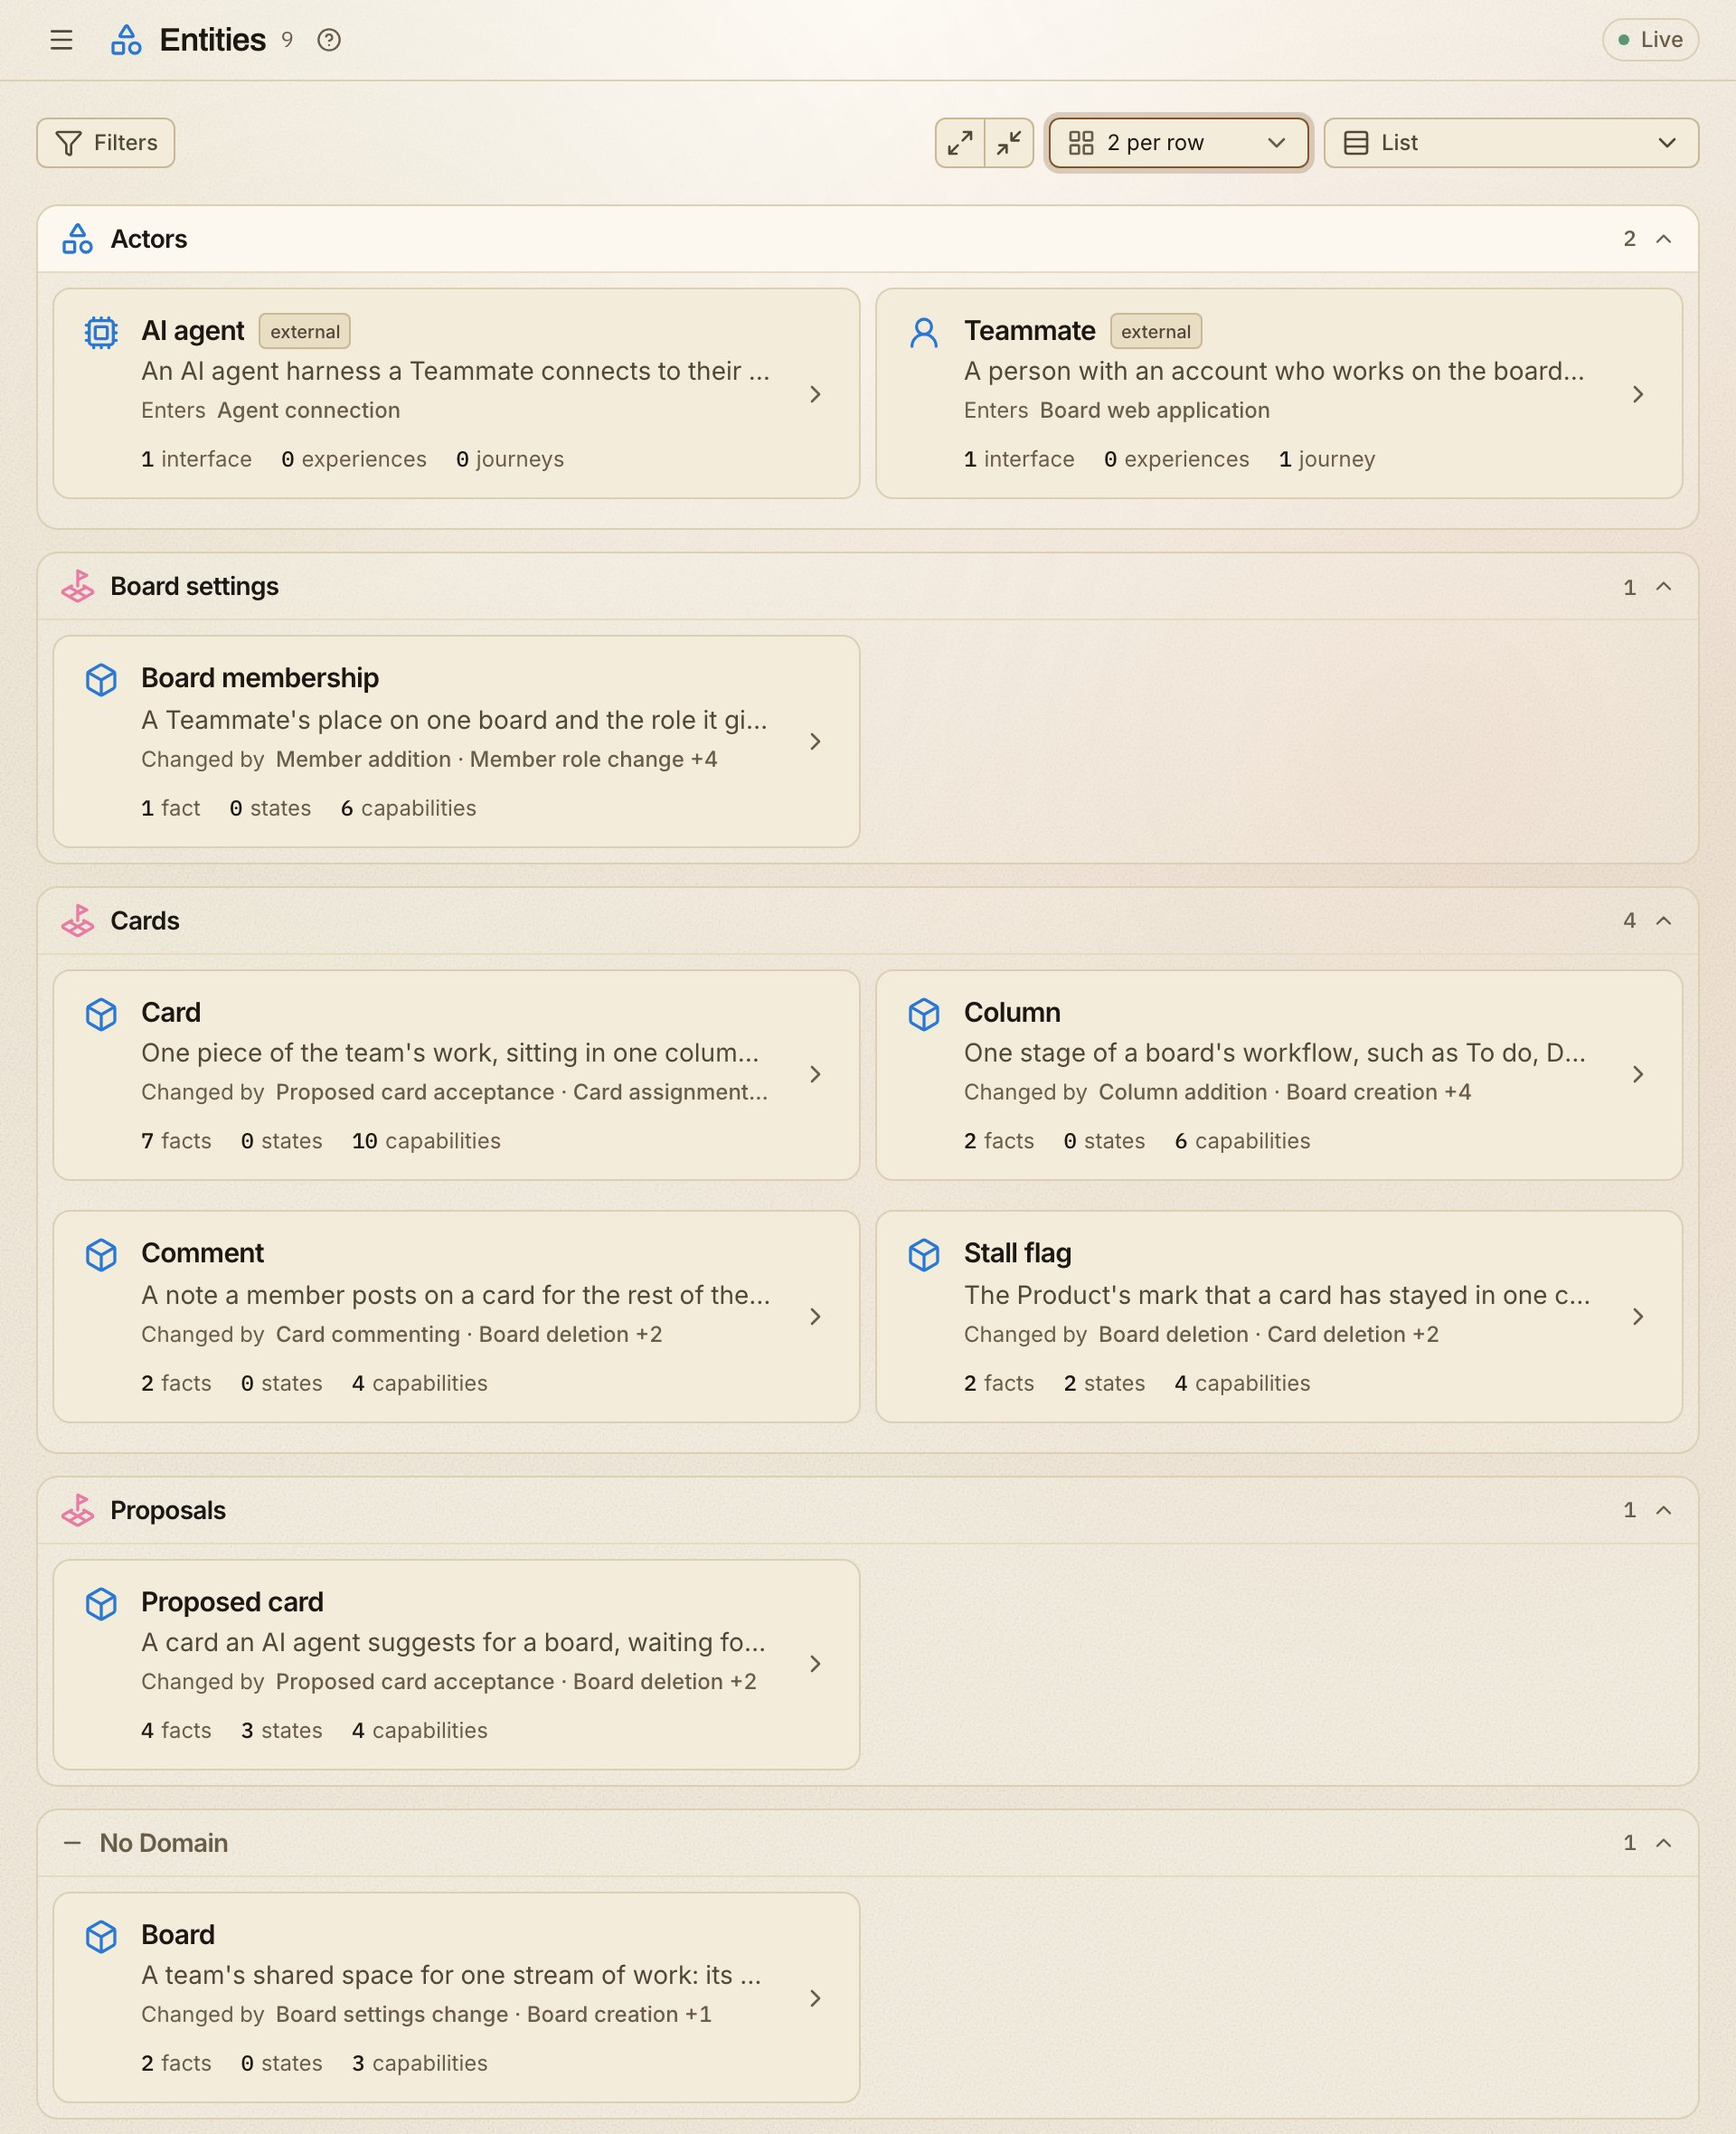
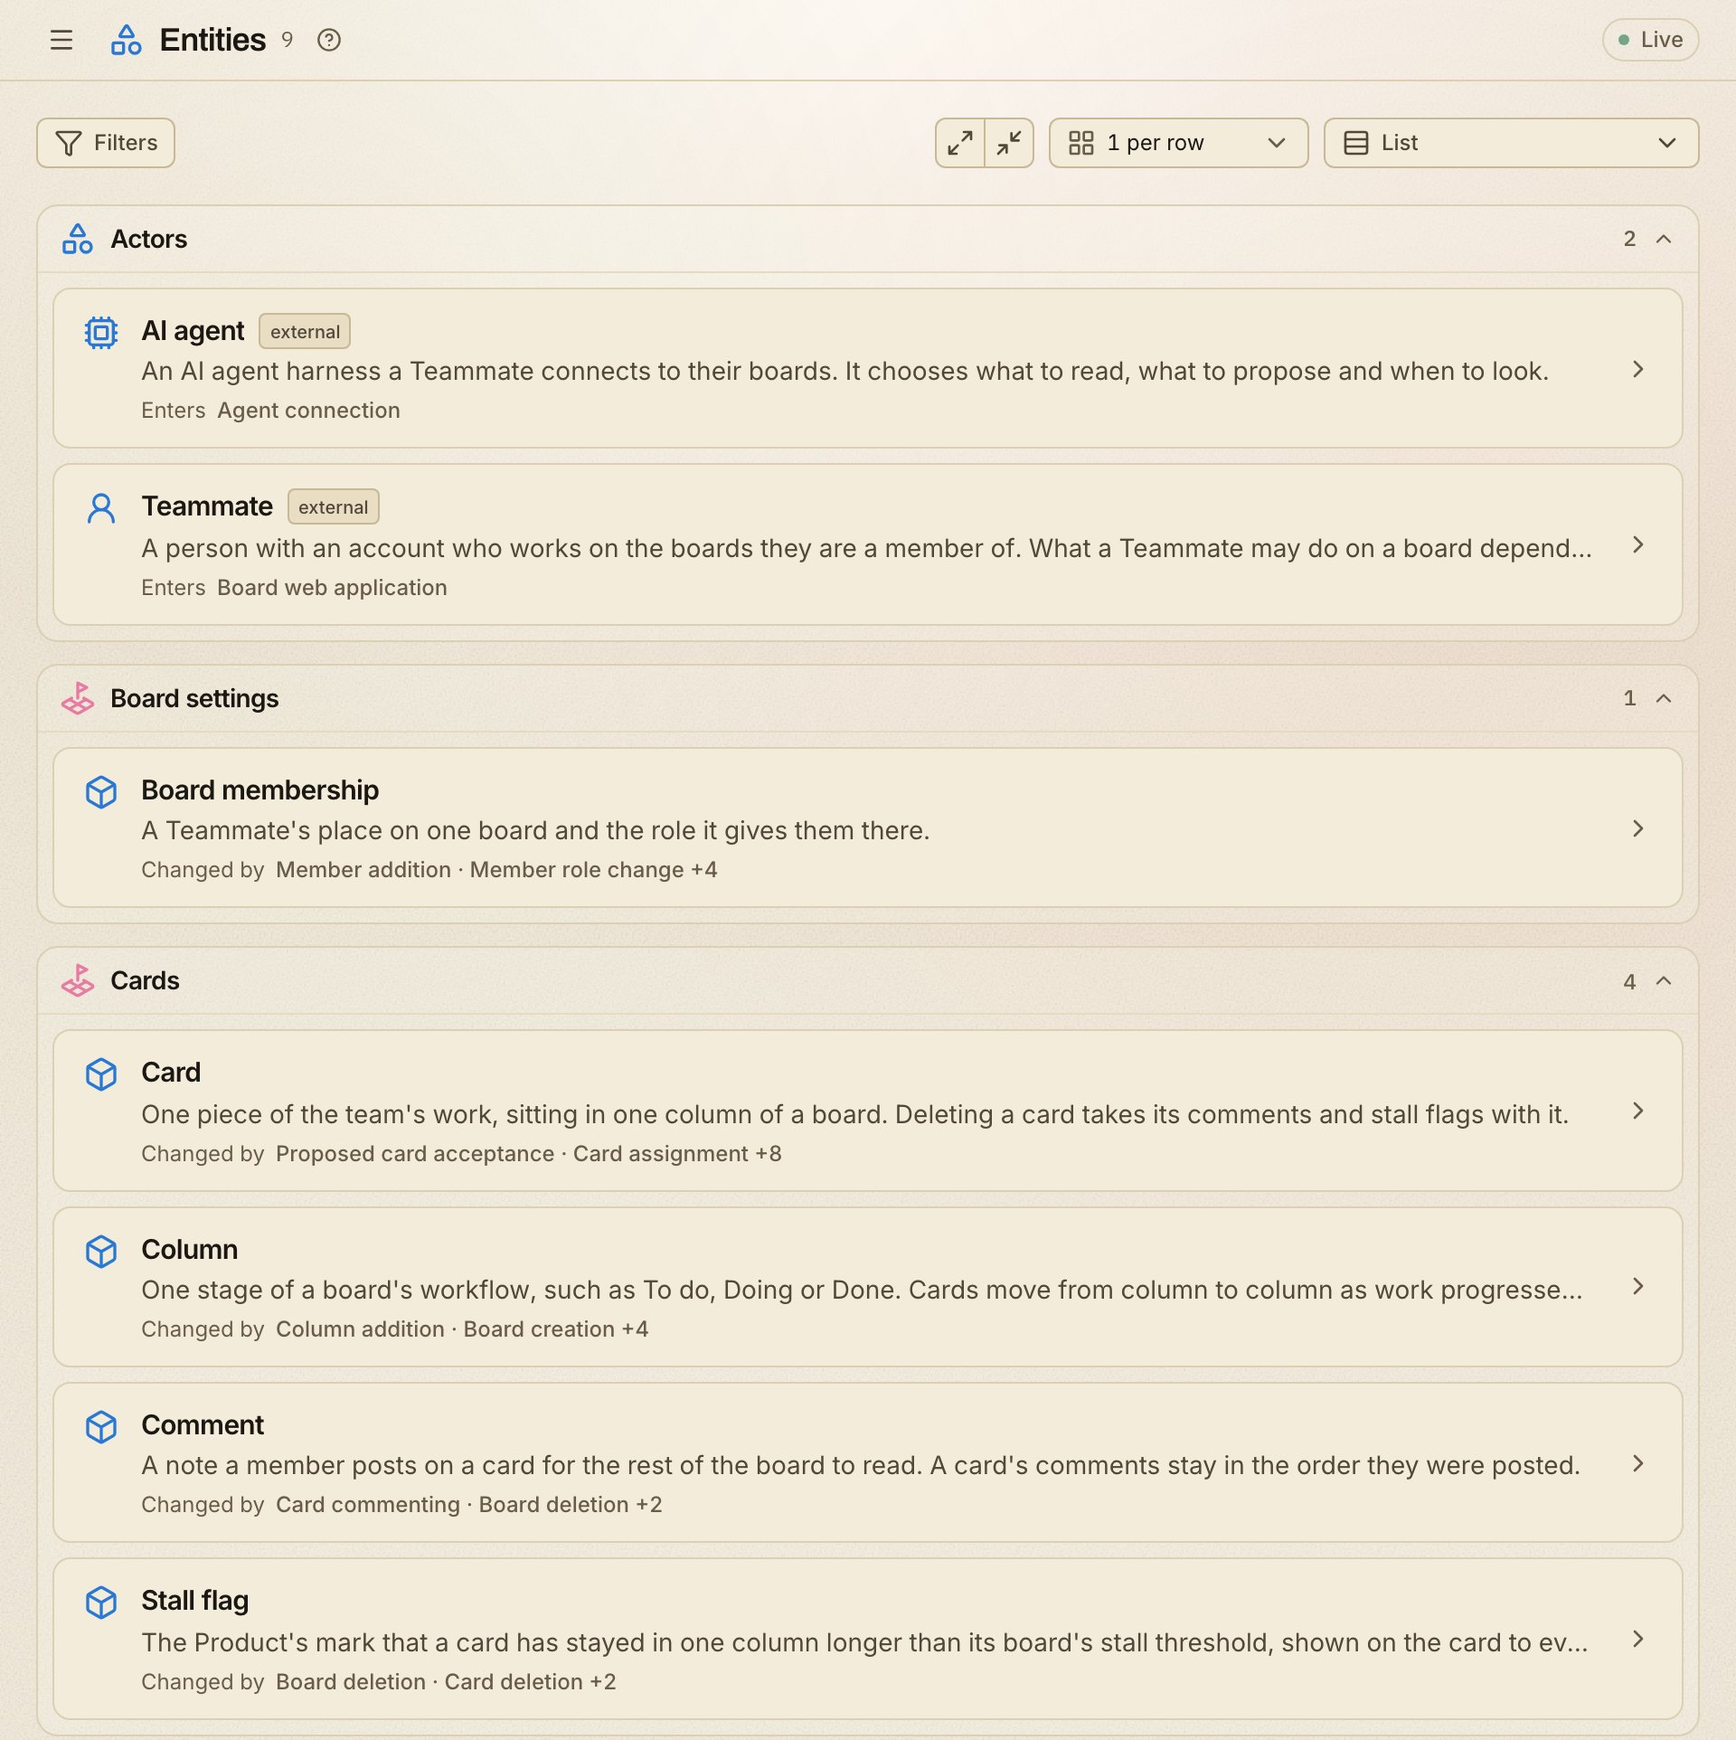
Show the three lists one per row

diff --git a/README.md b/README.md
@@ -96,7 +96,7 @@ npx businesslens view
 
 All 9 entities in the kanban model: what the product keeps, and who acts on it.
 
-<img src="./.github/readme/report/1a-entities.jpg" alt="Entities list: all 9 entities of the kanban model, grouped into Actors, Board settings, Cards, Proposals and No Domain" width="800">
+<img src="./.github/readme/report/1a-entities.jpg" alt="Entities list: the start of the kanban model's 9 entities, grouped by domain" width="800">
 
 Which capabilities create, change or remove each entity, filtered to the four
 capabilities around a proposed card:
@@ -111,7 +111,7 @@ capabilities around a proposed card:
 
 All 23 capabilities in the kanban model: what the product lets someone do.
 
-<img src="./.github/readme/report/2a-capabilities.jpg" alt="Capabilities list: the 23 capabilities of the kanban model, grouped by domain" width="800">
+<img src="./.github/readme/report/2a-capabilities.jpg" alt="Capabilities list: the start of the kanban model's 23 capabilities, grouped by domain" width="800">
 
 Which interfaces offer each capability, filtered to six card capabilities:
 
@@ -125,7 +125,7 @@ Which interfaces offer each capability, filtered to six card capabilities:
 All 32 business rules in the kanban model: what must always hold, and who may
 do what.
 
-<img src="./.github/readme/report/3a-business-rules.jpg" alt="Business rules list: the 32 business rules of the kanban model, grouped by domain" width="800">
+<img src="./.github/readme/report/3a-business-rules.jpg" alt="Business rules list: the start of the kanban model's 32 business rules, grouped by domain" width="800">
 
 Where each business rule is attached, filtered to the five attached to the
 Proposed card entity:
